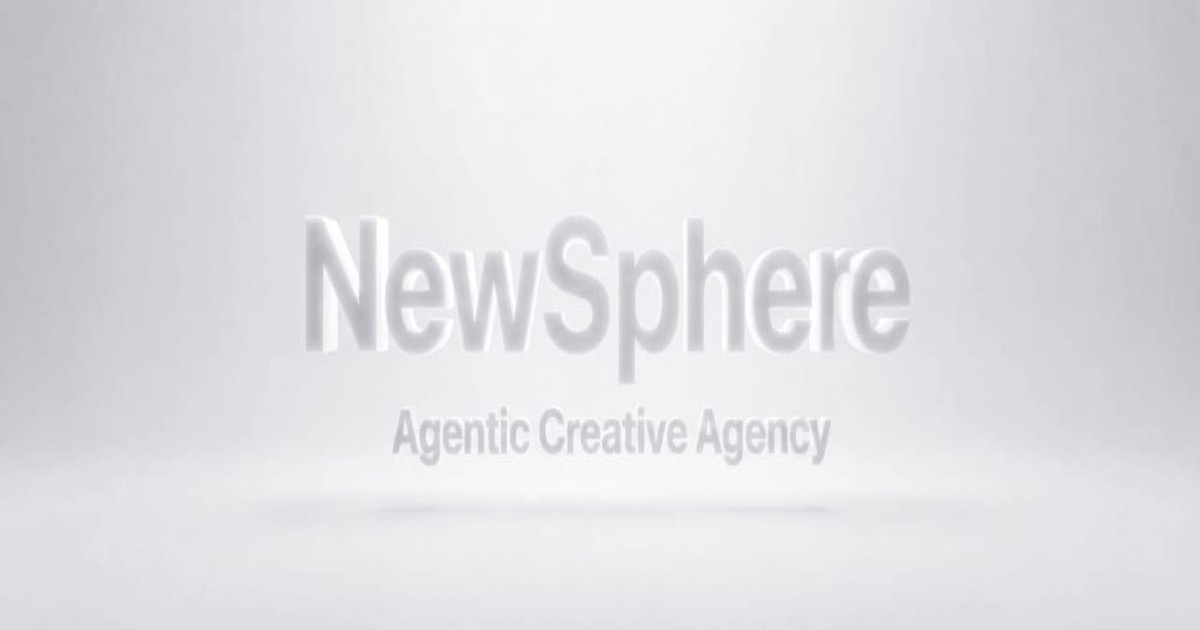
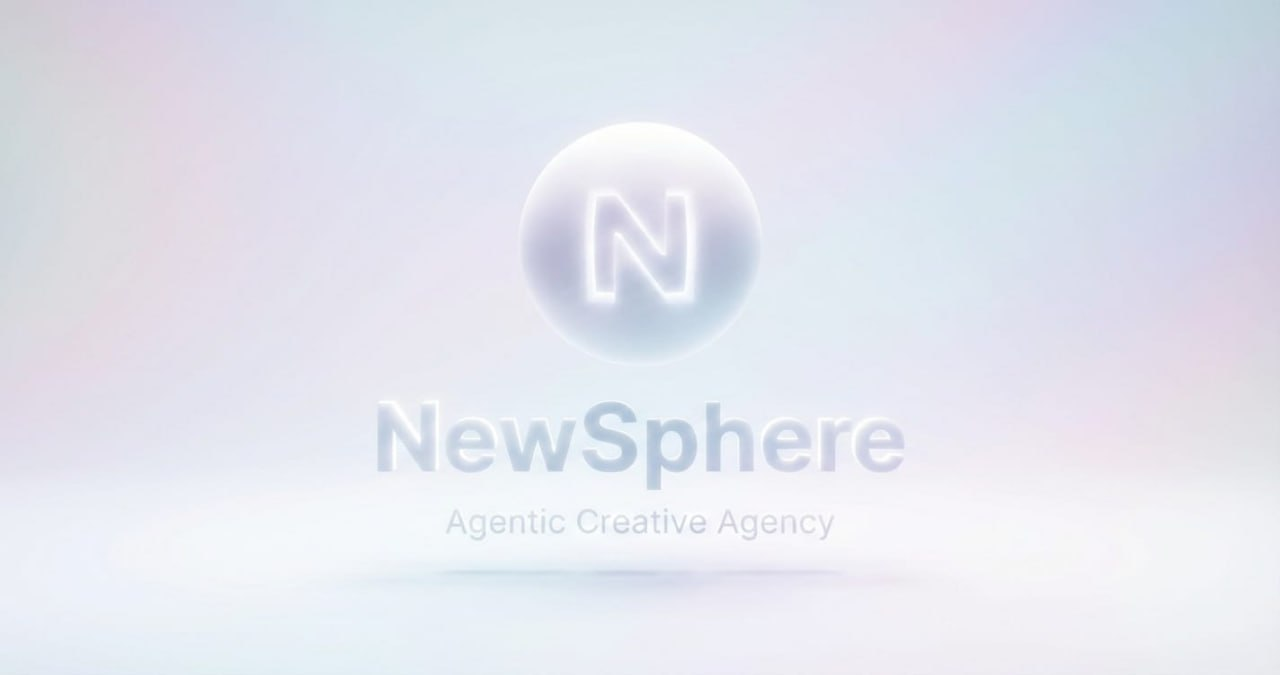
Update OG image with beautiful iridescent card

diff --git a/src/app/layout.tsx b/src/app/layout.tsx
@@ -25,9 +25,9 @@ export const metadata: Metadata = {
     description: "Automate your branding & marketing with AI-powered brand creation and content generation.",
     images: [
       {
-        url: "/api/og",
-        width: 1200,
-        height: 630,
+        url: "/og-image.jpg",
+        width: 1280,
+        height: 675,
         alt: "NewSphere - Agentic Creative Agency",
       },
     ],
@@ -38,7 +38,7 @@ export const metadata: Metadata = {
     creator: "@newsphere_ai",
     title: "NewSphere — Agentic Creative Agency",
     description: "Automate your branding & marketing with AI-powered brand creation and content generation.",
-    images: ["/api/og"],
+    images: ["/og-image.jpg"],
   },
   icons: {
     icon: "/favicon.png",
